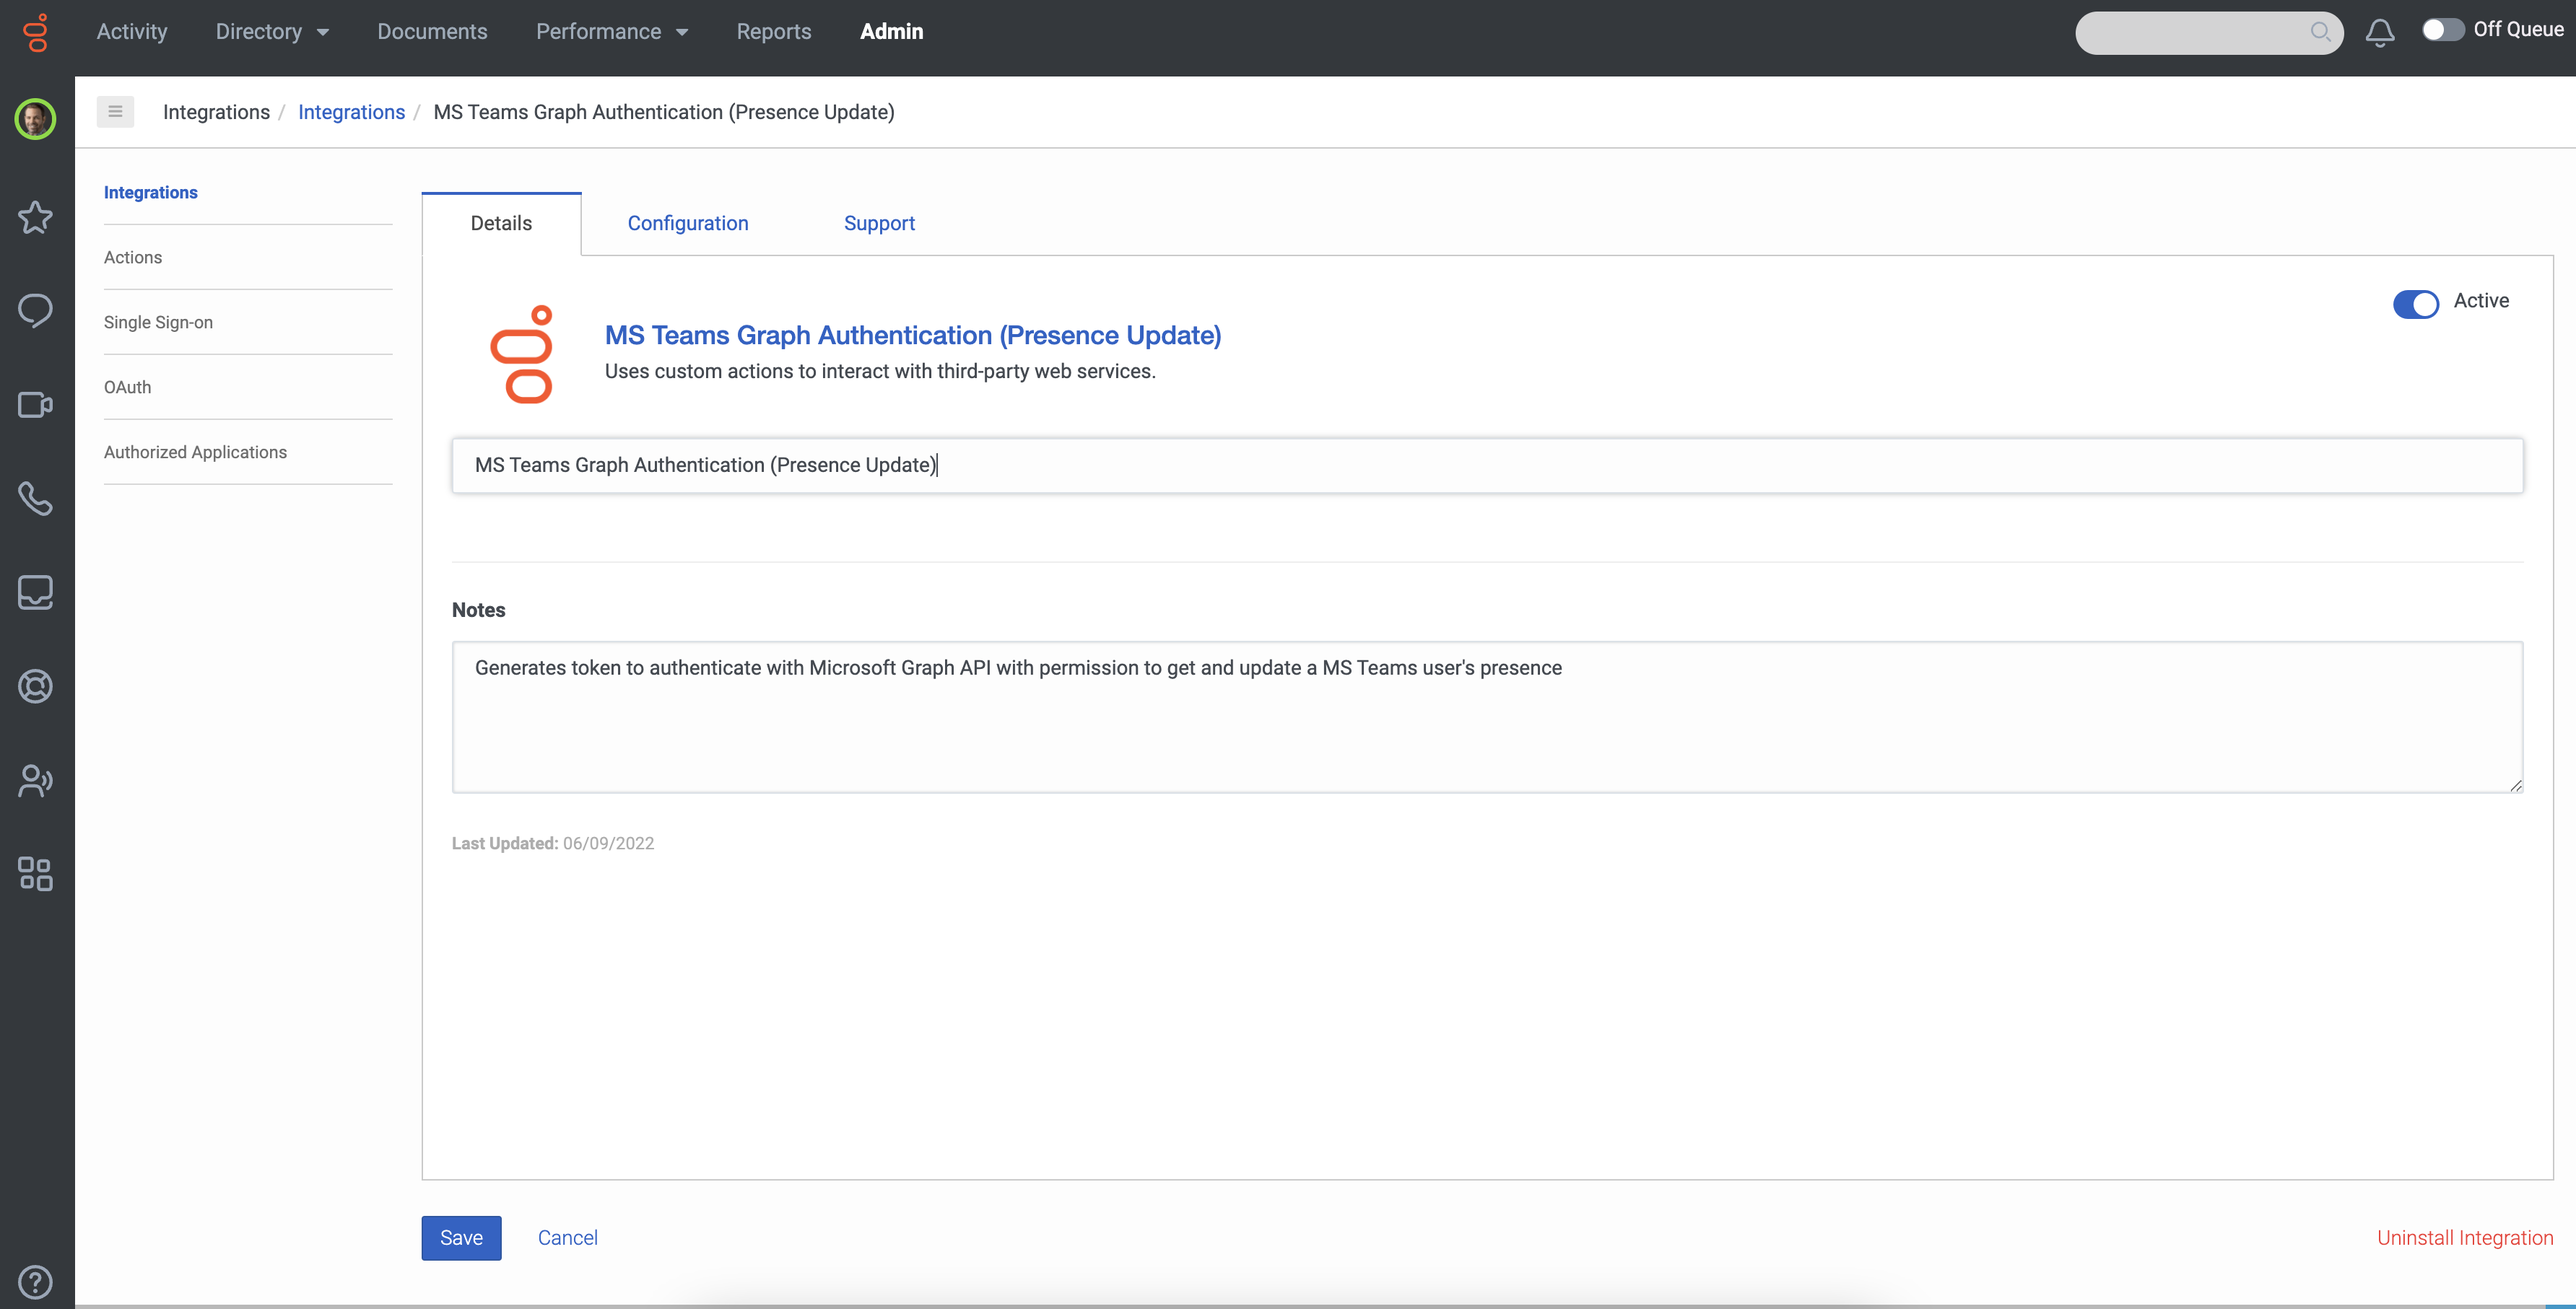
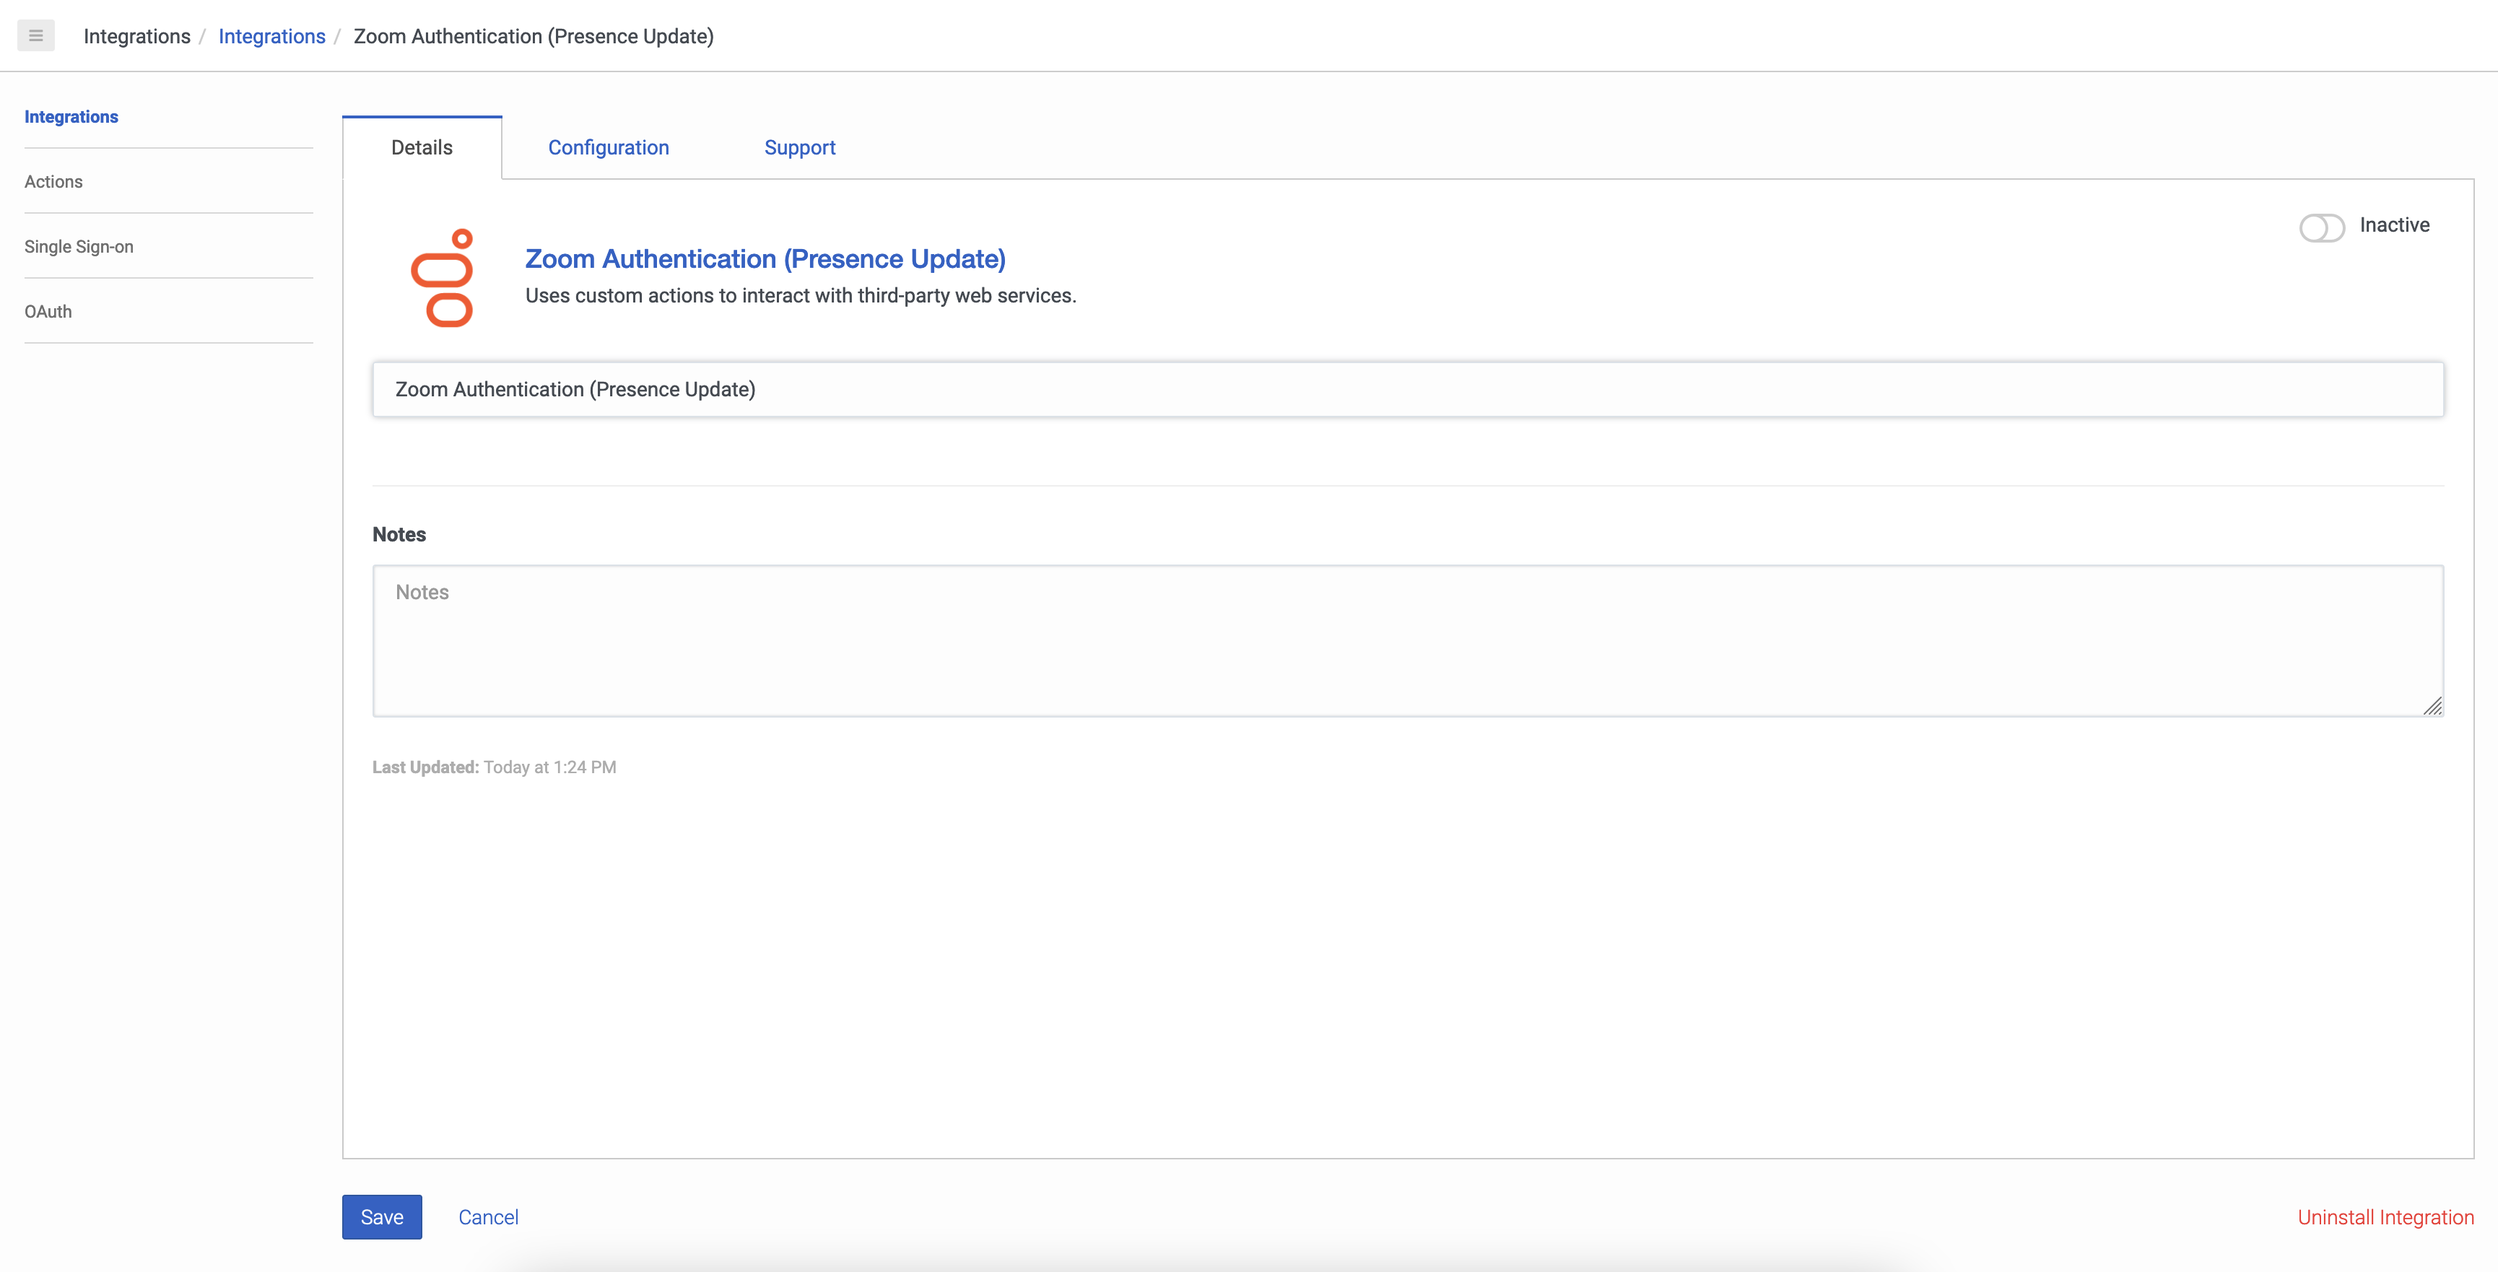
updated screenshots and data actions through zoom presence api put call

diff --git a/blueprint/index.md b/blueprint/index.md
@@ -155,7 +155,7 @@ This data action calls the Microsoft Graph API to update the Zoom user's presenc
 
 3. Select the *Update-Zoom-User-Presence.custom.json* file and associate with the web services data action you created in the [Add a web services data actions integration](#add-a-web-services-data-actions-integration "Goes to the Add a web services data actions integration section") section and click **Import Action**.
 
-   ![Import the Update Zoom User Presence data action](images/5BImportUpdateZoomUserPresenceDataAction.png "Import the SMS data action")
+   ![Import the Update Zoom User Presence data action](images/5BImportUpdateZoomUserPresenceDataAction.png "Import the data action")
 
 ### Import the Architect Workflows
 You need to import the *GC User Set Zoom to DoNotDisturb_v8-0.i3WorkFlow* and *GC User Set Zoom to Available_v4-0.i3WorkFlow* architect workflows that references the created data actions. These workflows will be called by the Event Orchestration triggers created in the next step.  When triggered, these workflows will call the Find Zoom User ID data action, set the Zoom User Id variable then update the Zoom user's presence via the Graph API.  One workflow is triggered with an agent joins an inbound acd voice interaction and sets the Zoom presence to DoNotDisturb.  The other workflow is triggered when the inbound acd interaction ends and sets the Zoom presence to Available.  
